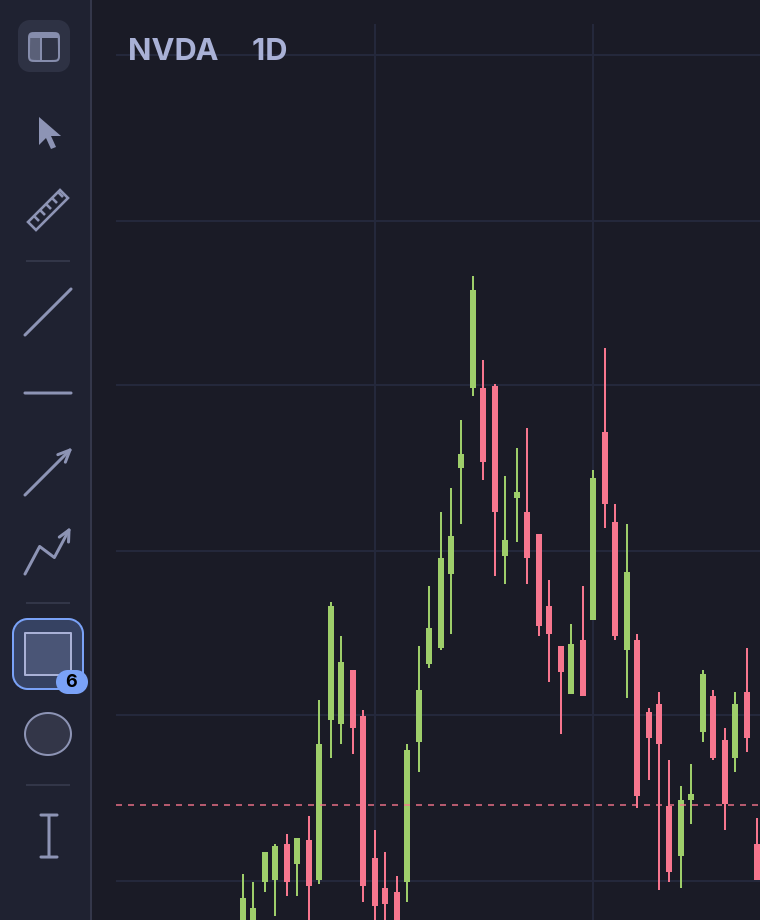
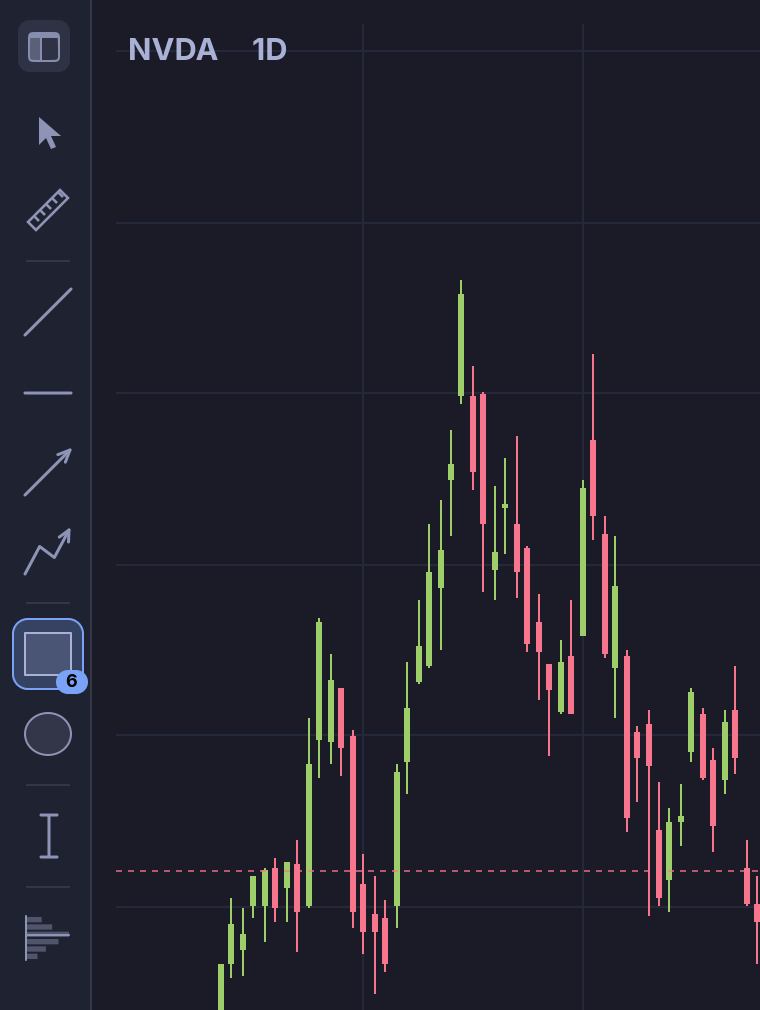
Retake the tool bar with the volume profile tool on it

diff --git a/src/ui/chart_settings.rs b/src/ui/chart_settings.rs
@@ -1208,7 +1208,7 @@ fn appearance_group(
     // A volume profile is bars and a mark, not a line, so it is asked about
     // its two colours and nothing about thickness or pattern.
     if indicator.kind == Kind::VolumeProfile {
-        return Some(profile_colours(owner, refresh, colour, indicator));
+        return Some(profile_style(owner, refresh, colour, indicator));
     }
 
     let group = adw::PreferencesGroup::new();
@@ -1719,7 +1719,7 @@ fn volume_colours(
 }
 
 /// The two colours a volume profile actually has.
-fn profile_colours(
+fn profile_style(
     owner: &Rc<Owner>,
     refresh: &Refresh,
     colour: &str,

diff --git a/site/manual/drawings.md b/site/manual/drawings.md
@@ -55,8 +55,8 @@ state:
   key alt+r
   key alt+6
   move 1275 795
-capture: bin/headless-window shot /tmp/bar.png; magick /tmp/bar.png -crop 760x920+0+0 +repage site/assets/manual/drawings/tools-bar.png
-crop: 0,0,760,920
+capture: bin/headless-window shot /tmp/bar.png; magick /tmp/bar.png -crop 760x1010+0+0 +repage site/assets/manual/drawings/tools-bar.png
+crop: 0,0,760,1010
 -->
 {% include figure.html src="/assets/manual/drawings/tools-bar.png" alt="The drawing tools down the left edge, with the rectangle lit and a small 6 on it" caption="The tools, with the rectangle selected and configuration 6 chosen for it." %}
 
